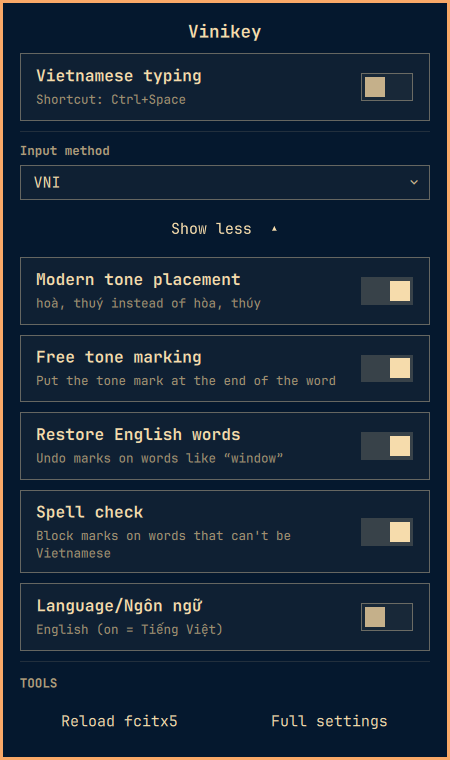
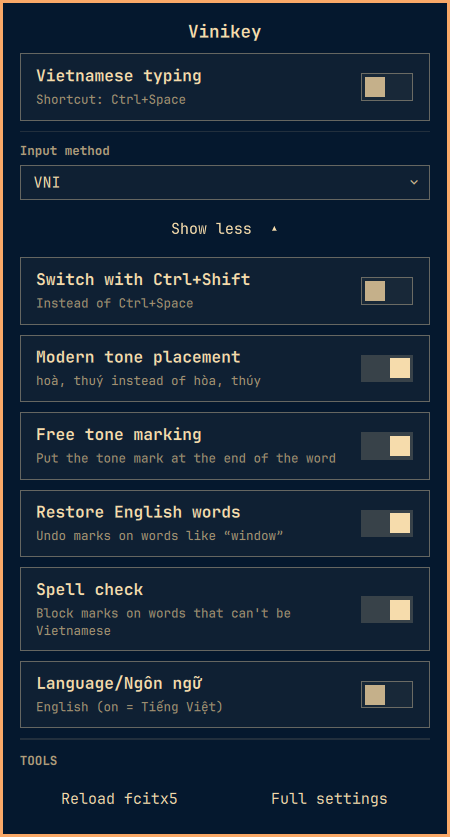
Panel: Switch with Ctrl+Shift (off by default)
On, Ctrl+Shift switches typing instead of Ctrl+Space (either key first, either
Shift); off restores Ctrl+Space. Only those entries in fcitx5's TriggerKeys
change; other keys stay. New IPC: setCtrlShift. Screenshots retaken.

diff --git a/Panel.qml b/Panel.qml
@@ -45,13 +45,21 @@ Panel {
   property bool fcitxUp: true
   // True while this opening of the panel leaves the keyboard with the app.
   property bool keyboardReleased: false
-  // The last five switches are tucked away until asked for.
+  // The last six switches are tucked away until asked for.
   property bool expanded: false
   // fcitx5 or Bamboo is missing and this folder has install.sh to fix it.
   property bool setupNeeded: false
 
   readonly property string installScript: decodeURIComponent(String(Qt.resolvedUrl("install.sh")).replace(/^file:\/\//, ""))
   readonly property string fcitxProfile: (Quickshell.env("XDG_CONFIG_HOME") || (Quickshell.env("HOME") + "/.config")) + "/fcitx5/profile"
+
+  // fcitx5's "Toggle Input Method" keys, in order; null until read.
+  property var triggerKeys: null
+  // Ctrl+Shift as fcitx5 spells it: either key first, either Shift. fcitx5 fires a
+  // modifier-only hotkey on release with nothing pressed in between, so shortcuts
+  // like Ctrl+Shift+T keep working.
+  readonly property var ctrlShiftKeys: ["Control+Shift_L", "Control+Shift_R", "Shift+Control_L", "Shift+Control_R"]
+  readonly property bool ctrlShift: triggerKeys !== null && triggerKeys.indexOf("Control+Shift_L") >= 0
 
   readonly property bool vietnamese: hostWidget ? hostWidget.vietnamese : false
   readonly property string shortcut: hostWidget ? hostWidget.shortcut : "Ctrl+Space"
@@ -96,8 +104,36 @@ Panel {
     root.opts = next
   }
 
+  // GetConfig lists the keys as `"TriggerKeys" a{sv} N "0" s "Control+space" "1" s ...`.
+  function parseTriggerKeys(text) {
+    var m = /"TriggerKeys" a\{sv\} (\d+)((?: "\d+" s "[^"]*")*)/.exec(text)
+    if (!m) return
+    var keys = []
+    var re = /"\d+" s "([^"]*)"/g, k
+    while ((k = re.exec(m[2])) !== null) keys.push(k[1])
+    root.triggerKeys = keys
+  }
+
+  // Off: Ctrl+Space switches. On: Ctrl+Shift switches instead. Other keys in the
+  // list (e.g. Zenkaku_Hankaku) stay; the chosen shortcut goes first, since the bar
+  // shows the first key.
+  function setCtrlShift(on) {
+    if (!root.bar || root.triggerKeys === null) return
+    var keys = root.triggerKeys.filter(function(k) {
+      return root.ctrlShiftKeys.indexOf(k) < 0 && k !== "Control+space"
+    })
+    keys = (on ? root.ctrlShiftKeys : ["Control+space"]).concat(keys)
+    root.triggerKeys = keys
+    if (root.hostWidget) root.hostWidget.shortcut = on ? "Ctrl+Shift" : "Ctrl+Space"
+    var args = ""
+    for (var i = 0; i < keys.length; i++) args += " " + Util.shellQuote(String(i)) + " s " + Util.shellQuote(keys[i])
+    root.bar.run("pgrep -x fcitx5 >/dev/null && exec busctl --user call org.fcitx.Fcitx5 /controller org.fcitx.Fcitx.Controller1 SetConfig sv fcitx://config/global "
+      + "'a{sv}' 1 Hotkey 'a{sv}' 1 TriggerKeys 'a{sv}' " + keys.length + args)
+  }
+
   function refresh() {
     if (!setupProbe.running) setupProbe.running = true
+    if (!globalProc.running) globalProc.running = true
     if (readProc.running) return
     readProc.running = true
   }
@@ -162,6 +198,15 @@ Panel {
     stdout: StdioCollector {
       waitForEnd: true
       onStreamFinished: root.parseOptions(String(text || ""))
+    }
+  }
+
+  Process {
+    id: globalProc
+    command: ["sh", "-c", "pgrep -x fcitx5 >/dev/null && exec busctl --user call org.fcitx.Fcitx5 /controller org.fcitx.Fcitx.Controller1 GetConfig s fcitx://config/global"]
+    stdout: StdioCollector {
+      waitForEnd: true
+      onStreamFinished: root.parseTriggerKeys(String(text || ""))
     }
   }
 
@@ -246,7 +291,7 @@ Panel {
           onChanged: function(v) { root.setOption("InputMethod", v) }
         }
 
-        // Shows the last five switches (including the language switch) and the tools.
+        // Shows the last six switches (including the language switch) and the tools.
         Button {
           width: parent.width
           text: root.expanded ? root.tr("fewerOptions") + "  ▴" : root.tr("moreOptions") + "  ▾"
@@ -258,6 +303,15 @@ Panel {
           visible: root.expanded
           width: parent.width
           spacing: content.spacing
+
+          Toggle {
+            width: parent.width
+            label: root.tr("ctrlShift")
+            description: root.tr("ctrlShiftDesc")
+            checked: root.ctrlShift
+            enabled: root.fcitxUp && root.triggerKeys !== null
+            onClicked: root.setCtrlShift(!root.ctrlShift)
+          }
 
           Toggle {
             width: parent.width

diff --git a/BarWidget.qml b/BarWidget.qml
@@ -111,6 +111,8 @@ BarWidget {
     return String(key).split("+").map(function(part) {
       if (part === "Control") return "Ctrl"
       if (part === "space") return "Space"
+      if (part === "Shift_L" || part === "Shift_R") return "Shift"
+      if (part === "Control_L" || part === "Control_R") return "Ctrl"
       return part.length > 0 ? part.charAt(0).toUpperCase() + part.slice(1) : part
     }).join("+")
   }
@@ -185,6 +187,8 @@ BarWidget {
     function toggleFromPanel(): void { root.toggleImFromPanel() }
     function setOptionsExpanded(expanded: bool): void { if (panelLoader.item) panelLoader.item.expanded = expanded }
     function setLanguage(language: string): void { root.setLanguage(language) }
+    // Needs the panel to have read fcitx5's keys once (open it first).
+    function setCtrlShift(on: bool): void { if (panelLoader.item) panelLoader.item.setCtrlShift(on) }
   }
 
   Process {

diff --git a/Strings.js b/Strings.js
@@ -14,6 +14,8 @@ var table = {
     setupTip: "Cài fcitx5 và Bamboo trong cửa sổ terminal",
     inputMethod: "Kiểu gõ",
     chooseMethod: "Chọn kiểu gõ…",
+    ctrlShift: "Chuyển bằng Ctrl+Shift",
+    ctrlShiftDesc: "Thay cho Ctrl+Space",
     modern: "Đặt dấu kiểu mới",
     modernDesc: "hoà, thuý thay vì hòa, thúy",
     free: "Bỏ dấu tự do",
@@ -44,6 +46,8 @@ var table = {
     setupTip: "Installs fcitx5 and Bamboo in a terminal window",
     inputMethod: "Input method",
     chooseMethod: "Choose method…",
+    ctrlShift: "Switch with Ctrl+Shift",
+    ctrlShiftDesc: "Instead of Ctrl+Space",
     modern: "Modern tone placement",
     modernDesc: "hoà, thuý instead of hòa, thúy",
     free: "Free tone marking",

diff --git a/docs/DESIGN.md b/docs/DESIGN.md
@@ -29,7 +29,7 @@ panel's switches.
 | W-1 | Show `VI` when the active fcitx5 input method is `bamboo`, `EN` otherwise, `--` (dimmed, with an explanatory tooltip) when fcitx5 is not running. |
 | W-2 | Clicking the icon (any button) opens the settings panel, consistent with the other Omarchy panel widgets. There is no click-to-toggle on the icon: the typing language is switched with the panel's switch or the fcitx5 hotkey (`Ctrl+Space`). |
 | W-3 | Show the current toggle shortcut (read live from fcitx5's `Hotkey/TriggerKeys`, shown as e.g. `Ctrl+Space`) in the panel and tooltip. |
-| W-4 | Panel contains, top to bottom: a centered `Vinikey` title; a Vietnamese-typing switch (toggles the focused app's input method; the panel stays open); a **Set up Vietnamese typing…** button, shown only when fcitx5/Bamboo are missing and `install.sh` is present, which runs it in Omarchy's floating terminal; input method dropdown (Telex, VNI, VIQR, Telex 2, Telex W, Telex + VNI, Microsoft layout; an unlisted method shows `Chọn kiểu gõ…` / `Choose method…`); an expander (`Tùy chọn khác` / `More options`, in the panel's current language) that is **collapsed by default** and reveals five switches: Modern tone placement, Free tone marking, Restore English words, Spell check and the bilingual `Language/Ngôn ngữ` switch, followed by the Tools section (Reload fcitx5, Full settings), which is collapsed with them. |
+| W-4 | Panel contains, top to bottom: a centered `Vinikey` title; a Vietnamese-typing switch (toggles the focused app's input method; the panel stays open); a **Set up Vietnamese typing…** button, shown only when fcitx5/Bamboo are missing and `install.sh` is present, which runs it in Omarchy's floating terminal; input method dropdown (Telex, VNI, VIQR, Telex 2, Telex W, Telex + VNI, Microsoft layout; an unlisted method shows `Chọn kiểu gõ…` / `Choose method…`); an expander (`Tùy chọn khác` / `More options`, in the panel's current language) that is **collapsed by default** and reveals six switches: Switch with Ctrl+Shift (off by default; on replaces Ctrl+Space with Ctrl+Shift in fcitx5's TriggerKeys, other keys kept), Modern tone placement, Free tone marking, Restore English words, Spell check and the bilingual `Language/Ngôn ngữ` switch, followed by the Tools section (Reload fcitx5, Full settings), which is collapsed with them. |
 | W-5 | Option changes apply immediately to the running fcitx5 (no restart) and are persisted by fcitx5 itself. |
 | W-6 | Panel text is Vietnamese by default and can be switched to English with the `Language/Ngôn ngữ` toggle. The label is intentionally bilingual and identical in both languages so it can be found from either. The choice persists in the widget's `shell.json` entry (`"language": "vi"|"en"`). |
 | W-7 | The widget must never cause fcitx5 to be started (see gotcha G-1). |

diff --git a/README.md b/README.md
@@ -79,7 +79,8 @@ outside pacman.
 | Click the indicator | open the settings panel (click outside to close) |
 | Panel: typing switch | switch language for the window you are typing in |
 | Panel: input method dropdown | change Bamboo's typing method live |
-| Panel: *More options* | expand the tone, English-restore, spell-check and language switches plus the Reload fcitx5 / Full settings tools (collapsed by default) |
+| Panel: *More options* | expand the Ctrl+Shift, tone, English-restore, spell-check and language switches plus the Reload fcitx5 / Full settings tools (collapsed by default) |
+| Panel: Switch with Ctrl+Shift | use Ctrl+Shift instead of Ctrl+Space to switch (off by default) |
 | Panel: Language/Ngôn ngữ | switch the panel between Vietnamese and English |
 
 The label reads `--` when fcitx5 is not running, and also when no window has keyboard
